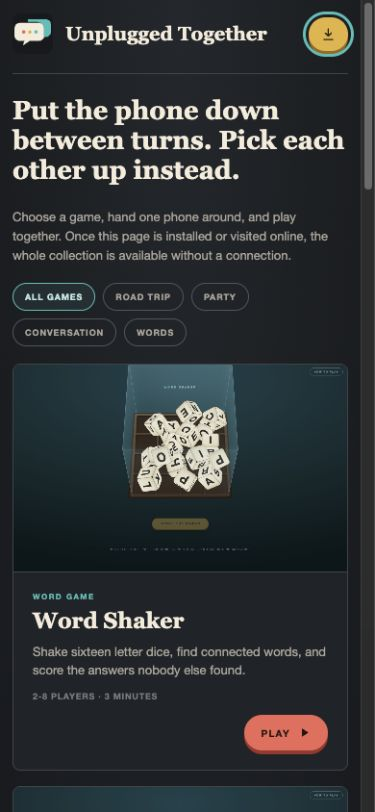
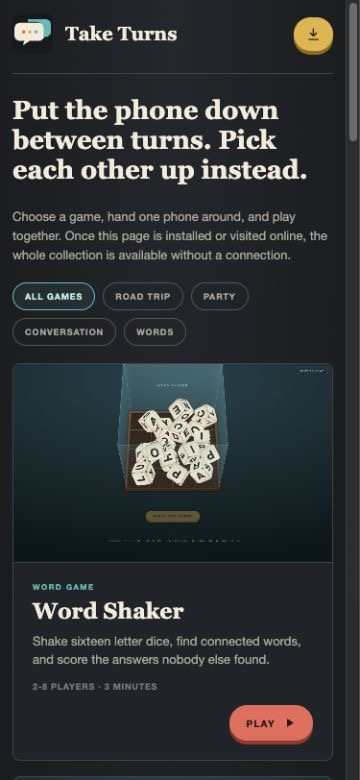
Rebrand as Take Turns

diff --git a/index.html b/index.html
@@ -8,7 +8,7 @@
 <link rel="manifest" href="manifest.webmanifest">
 <link rel="icon" href="icons/icon.svg" type="image/svg+xml">
 <link rel="apple-touch-icon" href="icons/icon-192.png">
-<title>Unplugged Together</title>
+<title>Take Turns</title>
 <style>
   :root{
     --night:#17191c;--night-hi:#24272b;--paper:#f3ecdc;--ink:#25211c;
@@ -68,9 +68,9 @@
 <body>
 <div class="shell">
   <header>
-    <a class="brand" href="./" aria-label="Unplugged Together home">
+    <a class="brand" href="./" aria-label="Take Turns home">
       <img src="icons/icon.svg" alt="">
-      <span><h1>Unplugged Together</h1><p>Games for people in the same place</p></span>
+      <span><h1>Take Turns</h1><p>Games for people in the same place</p></span>
     </a>
     <div class="headerActions">
       <span id="offlineStatus" class="status">Preparing offline</span>

diff --git a/sw.js b/sw.js
@@ -1,4 +1,4 @@
-const CACHE_NAME="unplugged-together-v2";
+const CACHE_NAME="take-turns-v4";
 const ASSETS=[
   "./",
   "./index.html",

diff --git a/README.md b/README.md
@@ -1,12 +1,12 @@
-# Unplugged Together
+# Take Turns
 
 Offline multiplayer games for face-to-face fun. No accounts, ads, tracking, or analytics.
 
 ## Play
 
-**[Open the game launcher](https://delgaudm.github.io/unplugged-together/)**
+**[Open the game launcher](https://taketurns.fun/)**
 
-[![Unplugged Together launcher](screenshots/launcher.jpg)](https://delgaudm.github.io/unplugged-together/)
+[![Take Turns launcher](screenshots/launcher.jpg)](https://taketurns.fun/)
 
 Choose a game and start playing. On a phone, use **Install App** or **Add to Home Screen** from the browser menu. Visit the launcher once while online and all nine games are cached for later use without a connection.
 